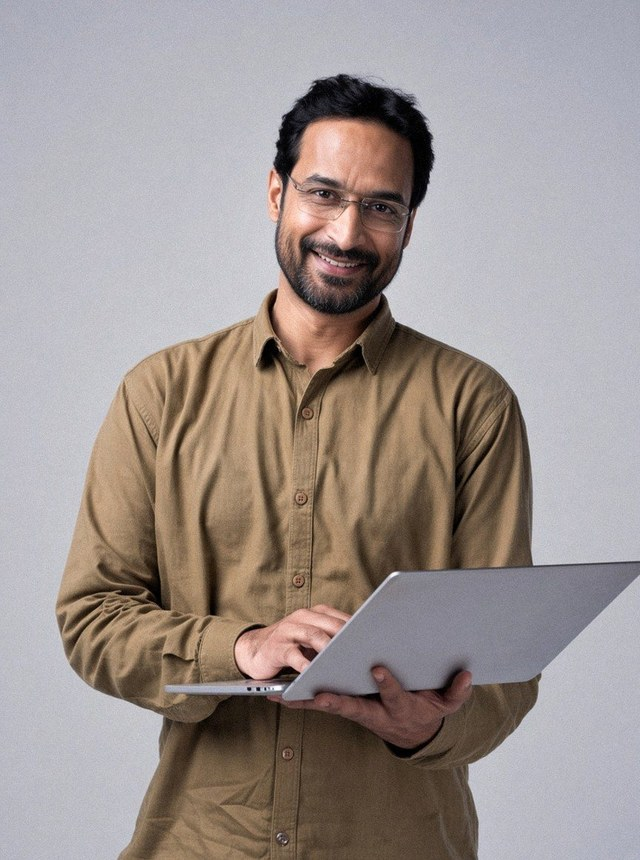
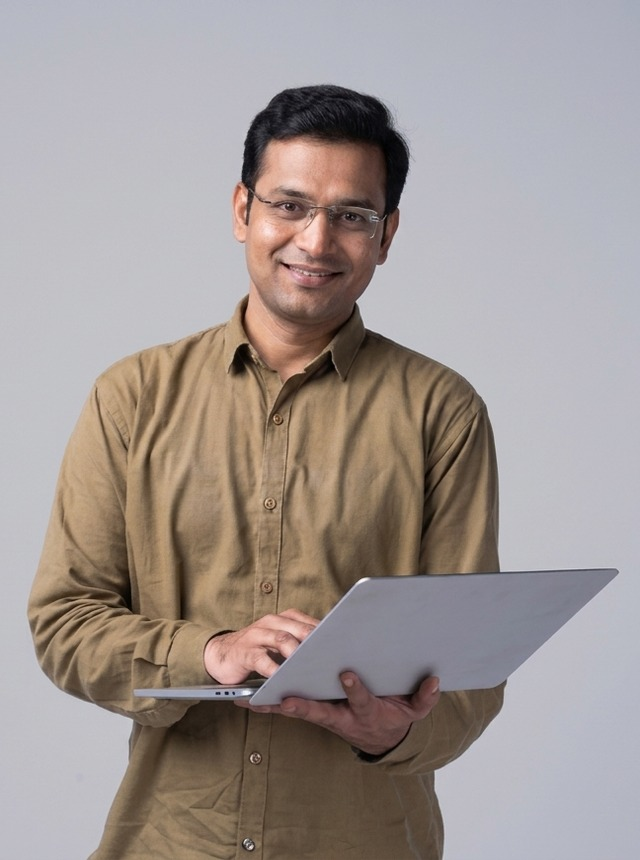
Set Kabir Joshi instructor DP from user photo (desk146).
Scrub sparkle watermark from ref, face-center 3:4 crop for site
640x860 + Flutter 864x1152, bump app.js cache to desk146 and Kabir ?v=10.

diff --git a/js/app.js b/js/app.js
@@ -812,7 +812,7 @@ const MENTORS = [
   { name: "Neha Kapoor", role: "Options specialist", tag: "Income strategies", img: "/img/instructors/neha-kapoor.jpg?v=9" },
   { name: "Vikram Singh", role: "Price action coach", tag: "Swing trading", img: "/img/instructors/vikram-singh.jpg?v=1" },
   { name: "Ananya Rao", role: "Long-term investor", tag: "Portfolio", img: "/img/instructors/ananya-rao.jpg?v=2" },
-  { name: "Kabir Joshi", role: "Index options", tag: "Bank Nifty", img: "/img/instructors/kabir-joshi.jpg?v=9" },
+  { name: "Kabir Joshi", role: "Index options", tag: "Bank Nifty", img: "/img/instructors/kabir-joshi.jpg?v=10" },
   { name: "Rohan Desai", role: "Fund researcher", tag: "Mutual funds", img: "/img/instructors/rohan-desai.jpg?v=13" },
   { name: "Priya Nair", role: "Asset allocation", tag: "SIP lab", img: "https://images.unsplash.com/photo-1580489944761-15a19d654956?auto=format&fit=crop&w=640&h=860&q=80" },
   { name: "Meera Iyer", role: "Options coach", tag: "Defined risk", img: "/img/instructors/meera-iyer.jpg?v=1" }
@@ -4931,6 +4931,7 @@ function traderIcon(kind) {
 /* cache-bust desk143: Ananya Rao DP from user photo ref (site 640x860 + flutter 864x1152) /img/instructors/ananya-rao.jpg?v=1 */
 /* cache-bust desk144: Ananya Rao DP zoom-out half-body (site 640x860 + flutter 864x1152) /img/instructors/ananya-rao.jpg?v=2 */
 /* cache-bust desk145: Meera Iyer DP from user photo ref (site 640x860 + flutter 864x1152) /img/instructors/meera-iyer.jpg?v=1 */
+/* cache-bust desk146: Kabir Joshi DP from user photo ref (scrub sparkle; site 640x860 + flutter 864x1152) /img/instructors/kabir-joshi.jpg?v=10 */
 function traderCardHTML(m, i, opts = {}) {
   const title = String(m.role || m.tag || "Mentor").trim();
   const cloneAttrs = opts.clone ? ' tabindex="-1" aria-hidden="true"' : "";

diff --git a/account.html b/account.html
@@ -17,7 +17,7 @@
   <div id="site-header"></div>
   <main id="accountRoot" class="ld-page"></main>
   <div id="site-footer"></div>
-  <script src="/js/app.js?v=desk145" defer></script>
+  <script src="/js/app.js?v=desk146" defer></script>
   <script src="/js/lms.js?v=cert2" defer></script>
 </body>
 </html>

diff --git a/learning.html b/learning.html
@@ -17,7 +17,7 @@
   <div id="site-header"></div>
   <main id="myLearning" class="ld-page"></main>
   <div id="site-footer"></div>
-  <script src="/js/app.js?v=desk145" defer></script>
+  <script src="/js/app.js?v=desk146" defer></script>
   <script src="/js/lms.js?v=cert2" defer></script>
 </body>
 </html>

diff --git a/course.html b/course.html
@@ -22,7 +22,7 @@
     </div>
   </main>
   <div id="site-footer"></div>
-  <script src="/js/app.js?v=desk145" defer></script>
+  <script src="/js/app.js?v=desk146" defer></script>
   <script src="/js/lms.js?v=cert2" defer></script>
   <script src="/js/drm.js?v=desk29" defer></script>
 </body>

diff --git a/contact.html b/contact.html
@@ -48,7 +48,7 @@
   </main>
   <div id="site-footer"></div>
   <script src="/js/help-faqs.js?v=faq1" defer></script>
-  <script src="/js/app.js?v=desk145" defer></script>
+  <script src="/js/app.js?v=desk146" defer></script>
   <script src="/js/lms.js" defer></script>
 </body>
 </html>

diff --git a/certificate.html b/certificate.html
@@ -19,7 +19,7 @@
     <div id="certRoot"></div>
   </main>
   <div id="site-footer"></div>
-  <script src="/js/app.js?v=desk145" defer></script>
+  <script src="/js/app.js?v=desk146" defer></script>
   <script src="/js/lms.js?v=cert2" defer></script>
 </body>
 </html>

diff --git a/control.html b/control.html
@@ -253,7 +253,7 @@
         loading = true;
         busy(true);
         var files = [
-          "/js/app.js?v=desk145",
+          "/js/app.js?v=desk146",
           "/js/lms.js",
           "/js/admin-core.js?v=desk8",
           "/js/admin.js?v=drm5",

diff --git a/index.html b/index.html
@@ -415,7 +415,7 @@
     </section>
   </main>
   <div id="site-footer"></div>
-  <script src="/js/app.js?v=desk145" defer></script>
+  <script src="/js/app.js?v=desk146" defer></script>
   <script src="/js/lms.js?v=cert2" defer></script>
 </body>
 </html>

diff --git a/live-room.html b/live-room.html
@@ -22,7 +22,7 @@
 </head>
 <body class="live-room-page">
   <div id="liveRoom"></div>
-  <script src="/js/app.js?v=desk145" defer></script>
+  <script src="/js/app.js?v=desk146" defer></script>
   <script src="/js/lms.js" defer></script>
 </body>
 </html>

diff --git a/nifty-options.html b/nifty-options.html
@@ -44,7 +44,7 @@
     </section>
   </main>
   <div id="site-footer"></div>
-  <script src="/js/app.js?v=desk145" defer></script>
+  <script src="/js/app.js?v=desk146" defer></script>
   <script src="/js/lms.js?v=cert2" defer></script>
 </body>
 </html>

diff --git a/option-trading-course.html b/option-trading-course.html
@@ -44,7 +44,7 @@
     </section>
   </main>
   <div id="site-footer"></div>
-  <script src="/js/app.js?v=desk145" defer></script>
+  <script src="/js/app.js?v=desk146" defer></script>
   <script src="/js/lms.js?v=cert2" defer></script>
 </body>
 </html>

diff --git a/share-market-course-in-hindi.html b/share-market-course-in-hindi.html
@@ -42,7 +42,7 @@
     </section>
   </main>
   <div id="site-footer"></div>
-  <script src="/js/app.js?v=desk145" defer></script>
+  <script src="/js/app.js?v=desk146" defer></script>
   <script src="/js/lms.js?v=cert2" defer></script>
 </body>
 </html>
